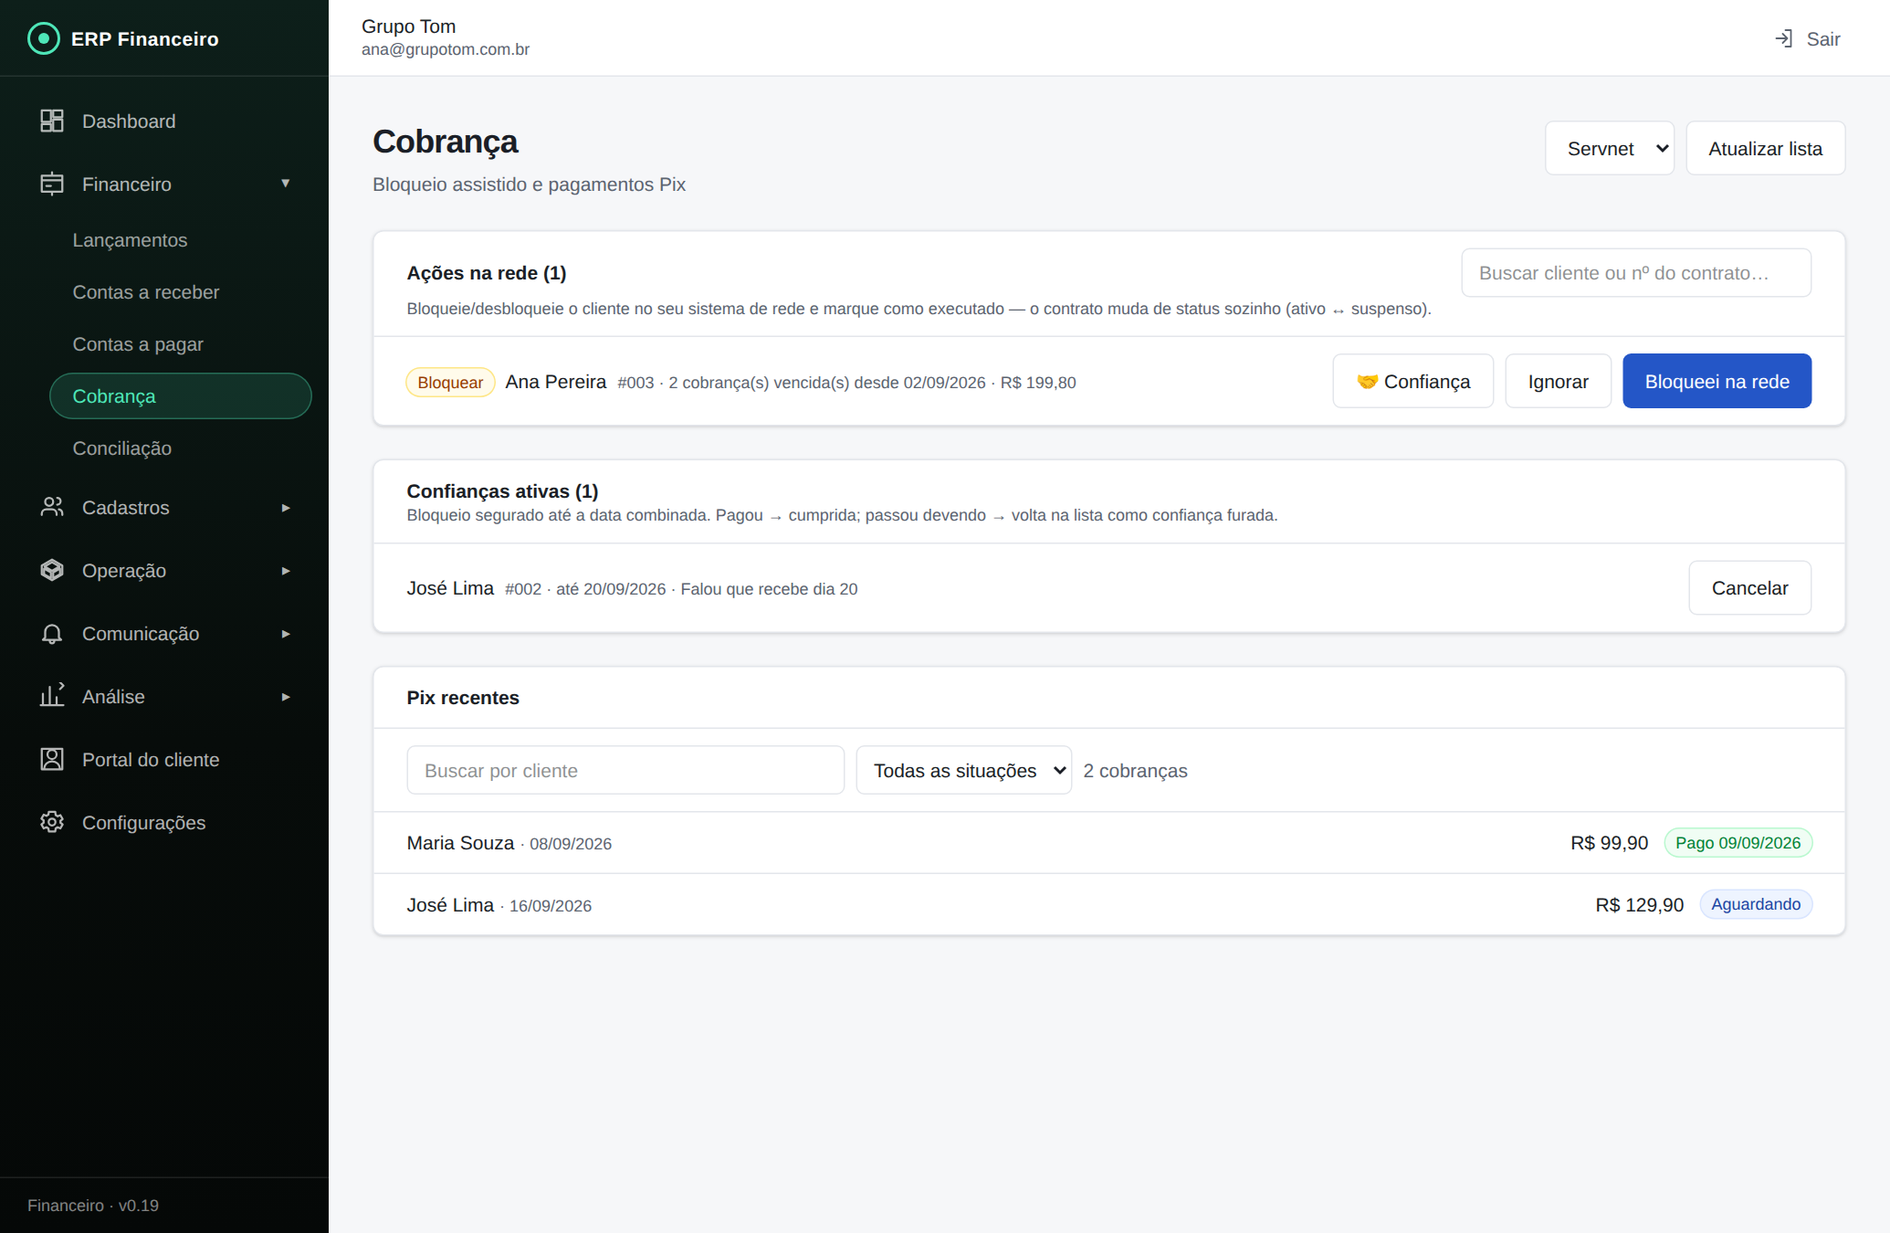
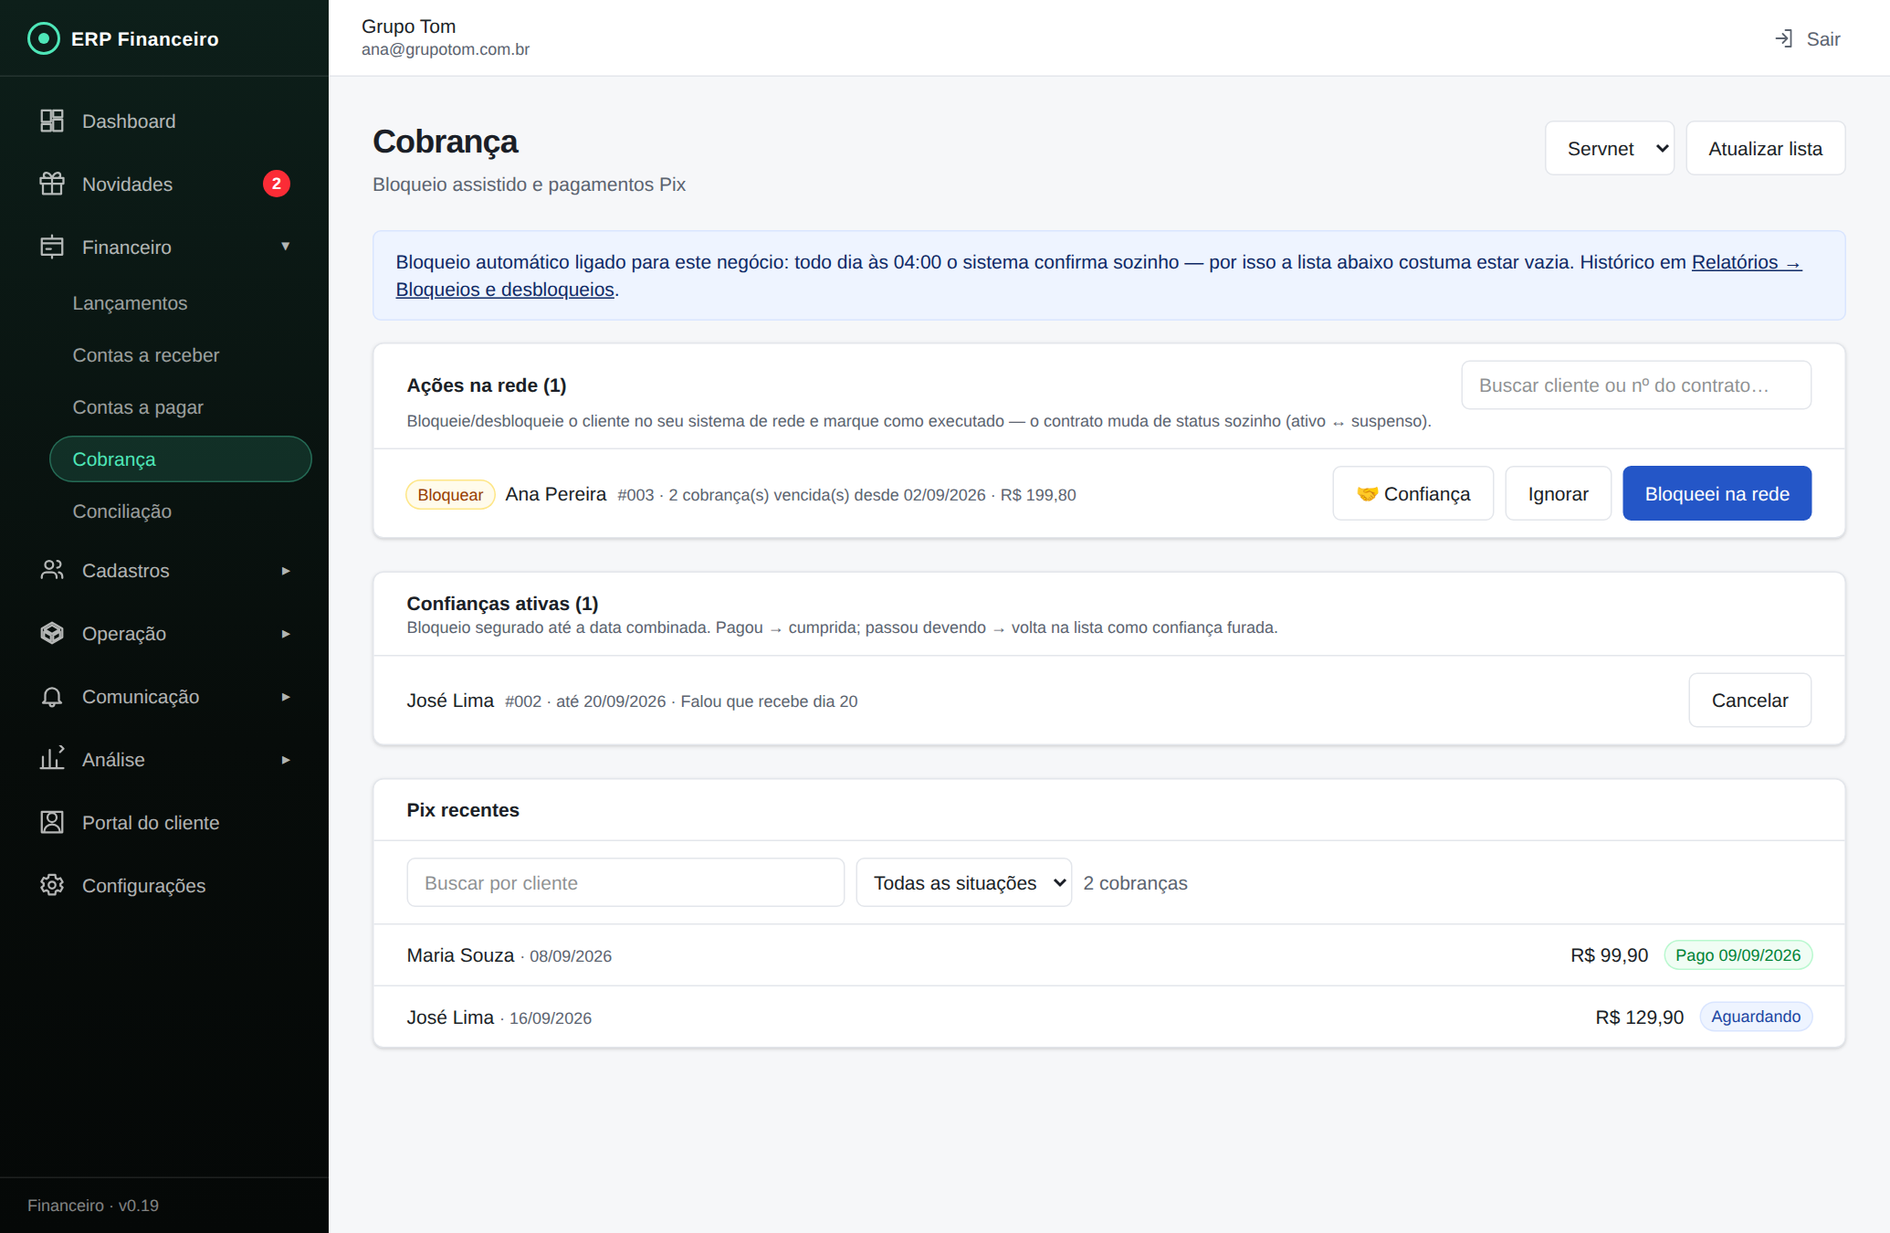
bloqueio: confirmação automática opt-in, quando a rede já corta sozinha (etapa 57)
Migration 0097: coluna notificacoes_config.bloqueio_automatico (opt-in,
default false); funções gerar_bloqueios_interno/executar_bloqueio_interno
(espelhos sem exigir_membro, só pro robô) e executar_bloqueios_automaticos
(varre negócios com o toggle ligado, gera e confirma sozinho); coluna
bloqueios.automatico pra auditoria; relatório "Bloqueios e desbloqueios"
(vw_rel_bloqueios). Migration 0098 (agendado): pg_cron diário às 04:00
Brasília, depois do faturamento.

Continua "bloqueio assistido" por padrão — o ERP não manda comando pra
rede; isso só automatiza o ERP parar de esperar o clique manual quando
o ReceitaNet/OLT já bloqueia e libera por conta própria (confirmado
pelo proprietário: é o caso da Servnet).

App: toggle "Bloqueio e desbloqueio automáticos" em Notificações →
configurar negócio; aviso em Cobrança quando está ligado, com link pro
relatório (lista "Ações na rede" fica vazia porque o robô já tratou).

Claude-Session: https://claude.ai/code/session_01LvKVVJXHUTGGnyzXpwt5fU

diff --git a/app/src/modules/notificacoes/components/FormularioConfig.tsx b/app/src/modules/notificacoes/components/FormularioConfig.tsx
@@ -27,6 +27,7 @@ export function FormularioConfig({ negocioId, negocioNome, config, aoConcluir }:
   const [instancia, setInstancia] = useState(config?.instancia ?? '')
   const [reguaAntes, setReguaAntes] = useState((config?.regua_antes ?? [2]).join(', '))
   const [reguaApos, setReguaApos] = useState((config?.regua_apos ?? [3]).join(', '))
+  const [bloqueioAutomatico, setBloqueioAutomatico] = useState(config?.bloqueio_automatico ?? false)
   const [horaInicio, setHoraInicio] = useState((config?.hora_inicio ?? '08:00').slice(0, 5))
   const [horaFim, setHoraFim] = useState((config?.hora_fim ?? '18:00').slice(0, 5))
   const [tplProximo, setTplProximo] = useState(config?.template_vencimento_proximo ?? TEMPLATES_PADRAO.template_vencimento_proximo)
@@ -49,7 +50,7 @@ export function FormularioConfig({ negocioId, negocioNome, config, aoConcluir }:
     if (provedor === 'evolution' && !/^[a-z0-9_-]{2,40}$/.test(inst)) { setErro('Informe o nome da instância da Evolution API (ex.: servnet).'); return }
     for (const t of [tplProximo, tplDia, tplBloqueio]) if (t.trim().length < 10 || t.length > 1000) { setErro('Cada mensagem precisa ter entre 10 e 1000 caracteres.'); return }
     setErro(null)
-    salvar.mutate({ id: config?.id, negocioId, dados: { numero_whatsapp: num || null, provedor, instancia: provedor === 'evolution' ? inst : null, ativo, regua_antes: rA, regua_apos: rP, hora_inicio: horaInicio, hora_fim: horaFim, template_vencimento_proximo: tplProximo.trim(), template_vencimento_dia: tplDia.trim(), template_bloqueio: tplBloqueio.trim() } }, { onSuccess: aoConcluir })
+    salvar.mutate({ id: config?.id, negocioId, dados: { numero_whatsapp: num || null, provedor, instancia: provedor === 'evolution' ? inst : null, ativo, regua_antes: rA, regua_apos: rP, bloqueio_automatico: bloqueioAutomatico, hora_inicio: horaInicio, hora_fim: horaFim, template_vencimento_proximo: tplProximo.trim(), template_vencimento_dia: tplDia.trim(), template_bloqueio: tplBloqueio.trim() } }, { onSuccess: aoConcluir })
   }
 
   return (
@@ -73,6 +74,15 @@ export function FormularioConfig({ negocioId, negocioNome, config, aoConcluir }:
         <Campo rotulo="Horário comercial: fim" type="time" value={horaFim} onChange={(e) => setHoraFim(e.target.value)} />
       </div>
       <p className="text-xs text-ink-muted">Régua padrão enxuta: 2 dias antes · no dia · 3 dias depois (o aviso do dia sempre sai). Cada ponto manda no máximo uma mensagem por fatura. Variáveis: {PLACEHOLDERS.join(' ')}. Fora do horário comercial (Brasília) os avisos ficam pendentes até a próxima execução.</p>
+      <label className="flex items-start gap-2 rounded-md border border-line p-3 text-sm">
+        <input type="checkbox" checked={bloqueioAutomatico} onChange={(e) => setBloqueioAutomatico(e.target.checked)} className="mt-0.5 size-4 accent-brand-600" />
+        <span>
+          <span className="block font-medium">Bloqueio e desbloqueio automáticos</span>
+          <span className="block text-ink-muted">
+            Todo dia às 04:00 o sistema confirma sozinho, sem precisar clicar em "Bloqueei/Desbloqueei na rede" em Cobrança. <b>Só ligue se a rede (ReceitaNet/OLT) já corta e libera o acesso do cliente por conta própria</b> — o ERP passa a só acompanhar o que a rede já faz, no prazo da régua "avisar depois" configurada acima.
+          </span>
+        </span>
+      </label>
       <Template rotulo="Mensagem: próximo ao vencimento" valor={tplProximo} aoMudar={setTplProximo} exemplo={exemplo} />
       <Template rotulo="Mensagem: no dia do vencimento" valor={tplDia} aoMudar={setTplDia} exemplo={exemplo} />
       <Template rotulo="Mensagem: bloqueio (após vencimento sem pagamento)" valor={tplBloqueio} aoMudar={setTplBloqueio} exemplo={exemplo} />

diff --git a/app/src/modules/financeiro/pages/CobrancaPage.tsx b/app/src/modules/financeiro/pages/CobrancaPage.tsx
@@ -10,9 +10,11 @@ import { mensagemDeErro } from '../../../core/erros/mensagemDeErro'
 import { formatarData, formatarMoeda } from '../../../core/formatos'
 import { supabase } from '../../../core/supabase/client'
 import { useOrganizacao } from '../../../core/organizacao/useOrganizacao'
+import { Link } from 'react-router'
 import { useNegocios } from '../../negocios/api'
 import { usePessoas } from '../../pessoas/api'
 import { useContratos } from '../../contratos/api'
+import { useConfigsNotificacao } from '../../notificacoes/api'
 import { BarraFiltros, CampoBusca, ContagemFiltro, SelectFiltro } from '../../../core/ui/Filtros'
 import { codigoContrato } from '../../contratos/tipos'
 
@@ -27,6 +29,7 @@ export function CobrancaPage() {
   const negocios = useNegocios()
   const pessoas = usePessoas()
   const contratos = useContratos()
+  const configs = useConfigsNotificacao()
   const [negocioId, setNegocioId] = useState('')
   const [buscaPix, setBuscaPix] = useState(''); const [statusPix, setStatusPix] = useState('')
   const [buscaConfianca, setBuscaConfianca] = useState('')
@@ -134,6 +137,14 @@ export function CobrancaPage() {
           </span>
         } />
       {erro != null && <div className="mb-4"><Alerta tipo="erro">{mensagemDeErro(erro)}</Alerta></div>}
+      {(configs.data ?? []).find((c) => c.negocio_id === negocioAtual)?.bloqueio_automatico && (
+        <div className="mb-4">
+          <Alerta tipo="info">
+            Bloqueio automático ligado para este negócio: todo dia às 04:00 o sistema confirma sozinho — por isso a lista abaixo costuma estar vazia.
+            Histórico em <Link to="/relatorios/bloqueios" className="underline">Relatórios → Bloqueios e desbloqueios</Link>.
+          </Alerta>
+        </div>
+      )}
 
       <div className="space-y-6">
         <Cartao className="p-0">

diff --git a/app/src/modules/relatorios/catalogo.ts b/app/src/modules/relatorios/catalogo.ts
@@ -413,6 +413,26 @@ export const RELATORIOS: Relatorio[] = [
     agrupavel: ['token', 'negocio', 'situacao'],
     ordem: { chave: 'criado_em', desc: true },
   },
+  {
+    id: 'bloqueios',
+    titulo: 'Bloqueios e desbloqueios',
+    area: 'Financeiro',
+    descricao: 'Histórico do bloqueio assistido/automático: quem foi bloqueado ou desbloqueado, quando e se foi o robô ou um clique manual.',
+    view: 'vw_rel_bloqueios',
+    filtros: ['negocio', 'pessoa'],
+    colunas: [
+      { chave: 'criado_em', rotulo: 'Sugerido em', tipo: 'data' },
+      { chave: 'executado_em', rotulo: 'Executado em', tipo: 'data' },
+      { chave: 'cliente', rotulo: 'Cliente' },
+      { chave: 'negocio', rotulo: 'Negócio' },
+      { chave: 'tipo', rotulo: 'Ação' },
+      { chave: 'status', rotulo: 'Status' },
+      { chave: 'automatico', rotulo: 'Automático' },
+      { chave: 'motivo', rotulo: 'Motivo' },
+    ],
+    agrupavel: ['negocio', 'tipo', 'status', 'automatico'],
+    ordem: { chave: 'criado_em', desc: true },
+  },
 ]
 
 export const AREAS: Area[] = ['Financeiro', 'Clientes e contratos', 'Operação', 'Comercial']

diff --git a/app/src/modules/notificacoes/tipos.ts b/app/src/modules/notificacoes/tipos.ts
@@ -27,6 +27,7 @@ export interface ConfigNotificacao {
   dias_apos: number
   regua_antes: number[]
   regua_apos: number[]
+  bloqueio_automatico: boolean
   hora_inicio: string
   hora_fim: string
   template_vencimento_proximo: string
@@ -41,6 +42,7 @@ export interface DadosConfigNotificacao {
   ativo: boolean
   regua_antes: number[]
   regua_apos: number[]
+  bloqueio_automatico: boolean
   hora_inicio: string
   hora_fim: string
   template_vencimento_proximo: string

diff --git a/docs/manual/README.md b/docs/manual/README.md
@@ -107,7 +107,7 @@ Filtros da tela: negócio, cliente/fornecedor, situação (aberto/vencido/pago),
 
 Mesma ideia para as despesas (energia, link, comissões dos técnicos etc.). Despesas de **cartão de crédito** que caem no mesmo vencimento aparecem agrupadas visualmente numa linha **"Fatura [cartão] · N item(ns)"** (clique na seta pra abrir) — os lançamentos continuam individuais no banco, cada um com sua categoria; é só a tela que agrupa. Dentro do grupo: **Editar** cada compra, dar baixa/cancelar uma por uma, ou **+ Ajuste** para lançar algo direto na fatura (anuidade, juros, estorno manual…).
 
-### 3.4 Cobrança (bloqueio assistido + Pix)
+### 3.4 Cobrança (bloqueio assistido/automático + Pix)
 
 ![Cobrança](img/06-cobranca-bloqueios.png)
 
@@ -119,6 +119,8 @@ A tela monta sozinha a lista de **quem bloquear** (cobrança vencida além do pr
 3. Embaixo, os **Pix recentes**: quem pagou pelo portal e quem está aguardando. O pagamento Pix dá baixa automática na fatura.
 4. Ao abrir esta tela, o sistema **re-verifica no Mercado Pago** os Pix aguardando há mais de 1 hora (caso algum aviso automático tenha se perdido) e dá a baixa na hora — o resultado aparece no topo da lista de Pix.
 5. Além disso, **todo minuto** o próprio banco confere no Mercado Pago cada Pix pendente e dá a baixa sozinho quando o pagamento aparece aprovado — funciona mesmo sem o aviso automático do MP e sem ninguém com a tela aberta (em até ~2 minutos após o dinheiro cair).
+
+**Bloqueio automático (opt-in):** em Notificações → configurar o negócio, ligue **"Bloqueio e desbloqueio automáticos"** — todo dia às 04:00 o sistema confirma sozinho quem bloquear/desbloquear, sem precisar clicar em nada. **Só ligue se a rede (ReceitaNet/OLT) já corta e libera o acesso do cliente por conta própria** — o ERP passa a só acompanhar o que a rede já faz, no prazo configurado na régua "avisar depois". Com isso ligado, a lista "Ações na rede" desta tela costuma ficar vazia (o robô já tratou); o histórico completo — manual e automático — fica em **Relatórios → Bloqueios e desbloqueios**.
 
 ### 3.5 Conciliação bancária
 
@@ -313,7 +315,7 @@ Relatórios disponíveis: Financeiro — resultado por negócio, gastos por cent
 
 ![Notificações](img/21-notificacoes.png)
 
-- **Notificações**: régua de cobrança no WhatsApp **configurável por negócio** — escolha em quais dias o cliente recebe aviso antes e depois do vencimento (até 5 pontos de cada lado; o aviso do dia sempre sai). Padrão enxuto: **2 antes · no dia · 3 depois**. Cada ponto manda no máximo uma mensagem por fatura — sem enxurrada de WhatsApp. Configure também número, instância Evolution e templates; acompanhe o histórico de envio. Os avisos de OS (visita agendada/concluída) e o Pix copia-e-cola pegam carona nessa mesma configuração.
+- **Notificações**: régua de cobrança no WhatsApp **configurável por negócio** — escolha em quais dias o cliente recebe aviso antes e depois do vencimento (até 5 pontos de cada lado; o aviso do dia sempre sai). Padrão enxuto: **2 antes · no dia · 3 depois**. Cada ponto manda no máximo uma mensagem por fatura — sem enxurrada de WhatsApp. Configure também número, instância Evolution, templates e o toggle **"Bloqueio e desbloqueio automáticos"** (§3.4); acompanhe o histórico de envio. Os avisos de OS (visita agendada/concluída) e o Pix copia-e-cola pegam carona nessa mesma configuração.
 - **Disparos** (![Disparos](img/22-disparos.png)): mensagens manuais em lote (ex.: aviso de manutenção) com proteção anti-bloqueio.
 - **Apps**: controle de recargas/ativações de apps com carteira de dois saldos. O **histórico da carteira** filtra por tipo (recarga/consumo) e mês; os **contratos de app**, por app, situação e busca por cliente/nº do contrato.
 - **Cobrança**: as listas de **confianças ativas** e **Pix recentes** têm busca por cliente e filtro de situação do Pix (aguardando/pago/cancelado).

diff --git a/CLAUDE.md b/CLAUDE.md
@@ -69,7 +69,8 @@ Custo mínimo, sem rodeios, assertivo. Um item por vez quando o proprietário es
 - Etapa 50: menu próprio Indicações (módulo app/src/modules/indicacoes — métricas, converter/escolher/entregar e vitrine; Portal do cliente ficou só com aparência/promoções/acessos).
 - Manual do administrador: `docs/manual/README.md` (tela a tela com prints; regerar com `app/scripts/prints-manual.mjs`).
 - **Etapa 55A/B/C entregues** (0092/0093/0094): `docs/59-compras.md` — módulo Compras com fluxo formal ERP grande. 55A: Requisição + Aprovação + Pedido. 55B: Recebimento imutável + lançamento (à vista ou N parcelas mensais; cartão → fatura). 55C: destino patrimônio cria bem individual no recebimento; comodato tratado como estoque (aloca ao cliente depois); botão "Nova compra" do Estoque removido (redireciona para `/compras`). Aprovador = proprietário. Pendências: anexo da nota (Storage) e requisição automática por alerta de estoque baixo.
-- **Etapa 56 entregue** (0095): `docs/60-api-integracoes.md` — API de consulta de cliente por CPF/CNPJ para integrações externas (Leveduca). Token por negócio (hash sha256, valor puro só na criação), Edge Function `api-consulta-cliente` (Verify JWT desligado), auditoria em `api_consultas` + relatório "Consultas à API". Configurações → Integrações via API. **Deploy pendente do proprietário**: migration 0095 pelo SQL Editor + Edge Function pelo painel (instruções no doc). Premissas assumidas (avisadas no doc, confirmar com a Leveduca): chave `endereco` sem acento, `numero`/`cep` sempre nulos (endereço é texto único no cadastro), grafia `cpf_cnpj` corrigida do typo do PDF deles.
+- **Etapa 56 entregue** (0095/0096): `docs/60-api-integracoes.md` — API de consulta de cliente por CPF/CNPJ para integrações externas (Leveduca), já em produção. Token por negócio (hash sha256, valor puro só na criação), Edge Function `api-consulta-cliente` (Verify JWT desligado) chamando o RPC `api_consultar_cliente` (0096 — toda a lógica em uma função definer, service_role só precisa de EXECUTE, sem grant tabela por tabela), auditoria em `api_consultas` + relatório "Consultas à API". Configurações → Integrações via API. Premissas assumidas (confirmar com a Leveduca se der problema): chave `endereco` sem acento, `numero`/`cep` sempre nulos (endereço é texto único no cadastro), grafia `cpf_cnpj` corrigida do typo do PDF deles.
+- **Etapa 57 entregue** (0097/0098): `docs/61-bloqueio-automatico.md` — bloqueio/desbloqueio automático, opt-in por negócio (`notificacoes_config.bloqueio_automatico`, desligado por padrão). Robô diário (pg_cron 04:00 Brasília) confirma sozinho quem bloquear/desbloquear — só pra quem já tem a rede (ReceitaNet/OLT) cortando/liberando por conta própria; o ERP não manda comando pra rede, só acompanha. Auditoria (`bloqueios.automatico`) + relatório "Bloqueios e desbloqueios". **Deploy pendente do proprietário**: migrations 0097 e 0098 pelo SQL Editor, nessa ordem (instruções no doc).
 - **No radar (não iniciar sem o proprietário pedir):** SVA de câmera IP — campanha de câmera em comodato para quem migra ao plano maior + mensalidade de manutenção, em `docs/58-sva-camera-ip.md` (dois produtos com contas separadas; operável hoje com estoque + comodato + plano adicional; sem guardar imagem, por LGPD).
 - **No radar (não iniciar sem o proprietário pedir):** SVA de ponto adicional/repetidor com mensalidade em vez de taxa de instalação — produto detalhado em `docs/57-sva-ponto-adicional.md` (já operável com plano + contrato adicional + comodato, sem etapa nova; falta só agrupar as duas cobranças numa fatura na visão do cliente).
 - **No radar (não iniciar sem o proprietário pedir):** integração ReceitaNet (API URA/Callcenter — consulta de cliente/faturas por CPF/telefone via Edge Function com token em secret). Aguarda: proprietário ativar o módulo de API no plano do ReceitaNet e obter o token com o suporte.

diff --git a/docs/61-bloqueio-automatico.md b/docs/61-bloqueio-automatico.md
@@ -1,0 +1,23 @@
+# Etapa 57: bloqueio/desbloqueio automático (opt-in)
+
+## Motivo
+
+Até aqui, "Bloqueio assistido" (etapa 31) exigia um clique manual em "Bloqueei/Desbloqueei na rede" — porque, em geral, **o ERP não manda comando nenhum pra rede**: quem corta ou libera o acesso é o ReceitaNet/OLT, fora daqui. Com 4 mil clientes, revisar isso um por um todo dia não escala.
+
+O proprietário confirmou que, no caso da Servnet, **o ReceitaNet já bloqueia e já libera o acesso sozinho**, pelas próprias regras dele (vencimento + N dias sem pagar → bloqueia; pagou → libera). Ou seja: o corte físico já é automático, fora do ERP — só faltava o ERP parar de esperar o clique manual pra registrar isso.
+
+## O que foi feito
+
+- **`notificacoes_config.bloqueio_automatico`** (opt-in, `false` por padrão): liga o robô diário pra esse negócio. Continua desligado por padrão porque nem todo negócio tem rede com bloqueio automático — quem não tem, segue no fluxo assistido normalmente.
+- **Robô diário** (`executar_bloqueios_automaticos`, pg_cron às 04:00 Brasília, depois do faturamento): pros negócios com o toggle ligado, gera as sugestões (mesma lógica de `gerar_bloqueios`, incluindo voto de confiança) e **já confirma sozinho** — suspende quem venceu há mais que a régua "avisar depois", reativa quem quitou.
+- **Auditoria**: `bloqueios.automatico` marca se foi o robô ou um clique manual; `usuario_id` fica nulo nos automáticos. Relatório **"Bloqueios e desbloqueios"** na Central de Relatórios mostra os dois tipos lado a lado.
+- Cobrança avisa quando o negócio está no modo automático (a lista "Ações na rede" tende a ficar vazia, porque o robô já tratou de madrugada).
+
+## Por que não automatizei o corte físico em si
+
+O ERP continua **sem nenhuma integração de comando com o ReceitaNet/OLT** — não é ele quem corta ou libera a internet. Isso é outra etapa (a integração ReceitaNet que já está no radar do CLAUDE.md, aguardando o proprietário ativar o módulo de API). O que esta etapa faz é manter o **status interno do contrato** (e por tabela, a API da Leveduca) alinhado com o que a rede já faz por conta própria — sem isso, o contrato podia continuar "ativo" no ERP dias depois do cliente já estar bloqueado de verdade.
+
+## Deploy (proprietário)
+
+1. SQL Editor: aplicar `20260902000097_bloqueio_automatico.sql` e depois `20260902000098_bloqueio_automatico_agendado.sql` (nessa ordem — o segundo agenda o pg_cron).
+2. No app: **Notificações → configurar o negócio → marcar "Bloqueio e desbloqueio automáticos" → Salvar** (só pra negócios onde a rede já bloqueia/libera sozinha).
